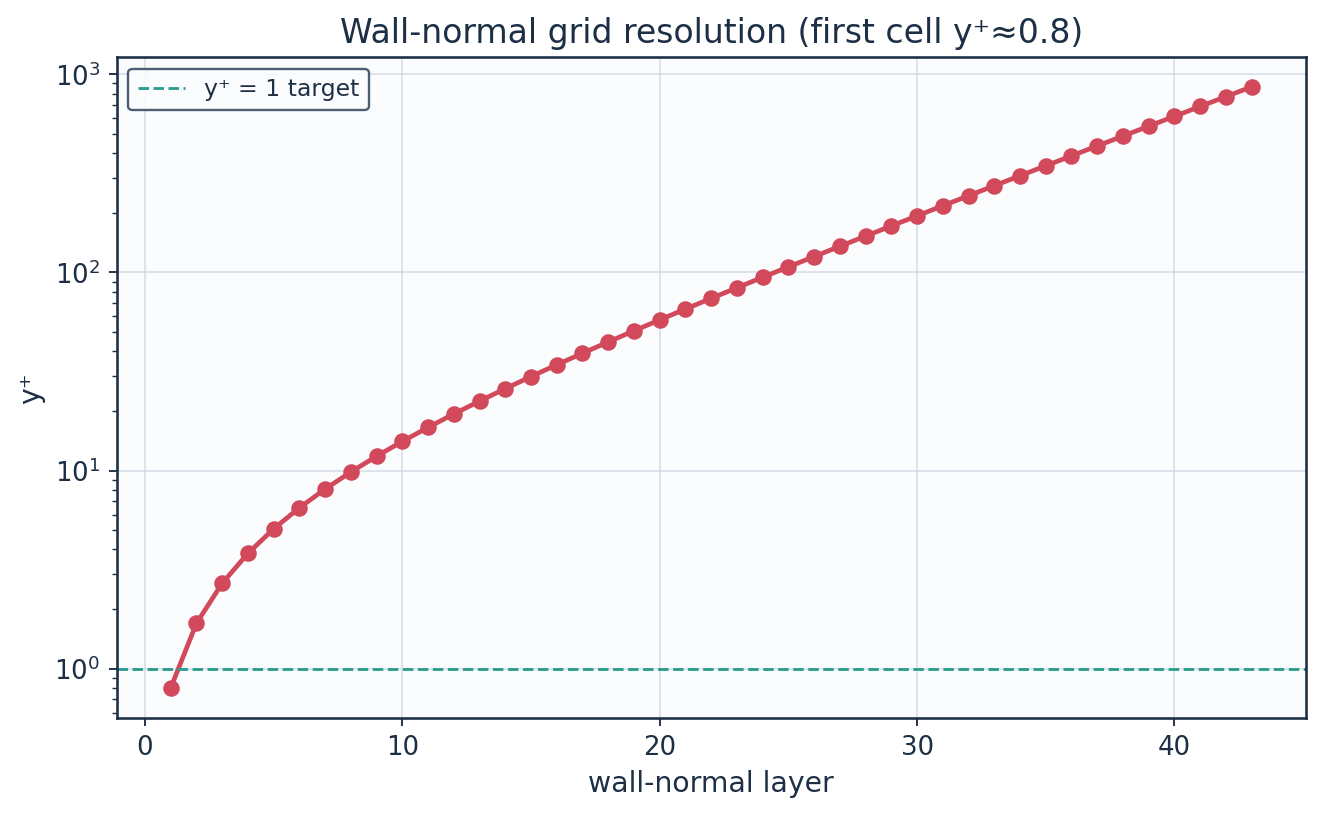
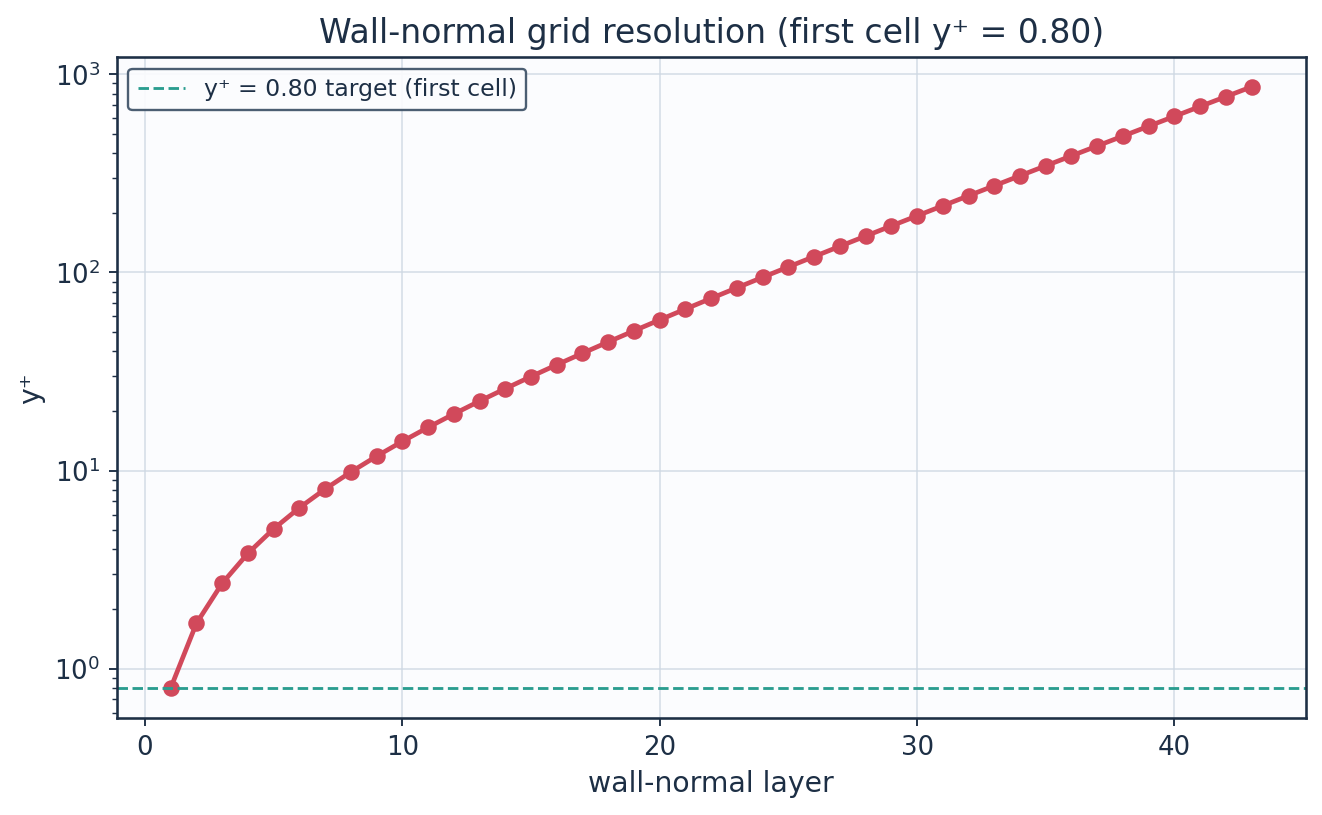
A figure that contradicted itself, and the panel count typed on four figures
Pass seven.  No CSV moves.

ONE FIGURE, TWO TARGETS.  The wall-normal resolution plot drew its reference
line at y+ = 1 and labelled it "y+ = 1 target", while its own title on the same
axes said "first cell y+ = 0.8" and 02_mesh/mesh_metrics.csv said 0.80.  The
line is at the first cell's own y+ now - the quantity gen_mesh_setup sized the
stack on - and the title reads it from the same place.  gen_mesh_setup's
version of the same figure had always derived it; only the duplicate in
gen_postprocessing had the fault, which is how it survived.

THE PANEL COUNT TYPED ON THE FIGURES ABOUT THE PANEL COUNT.  260 was a literal
on the mesh-independence plot in gen_postprocessing, twice more on the same
plot in gen_mesh_setup - ten lines below the N_PANEL_HALF that defines it - and
once in the report's narrative.  All four read it now.

Verified and left alone: Table 1 of the executive summary is derived in full;
ISA temperature at the 11 km cruise altitude is the 216.65 K the config
declares; the validation sections really are re-splined onto 400 and 440
panels; the mesh-independence band in the title is computed from the sweep
above 180 panels, which is the range the sentence claims.

32 smoke checks, all eight stages, and verify_outputs on the re-rendered
78-page report: all pass.

Changed region(s): [[0.1861, 0.0, 0.7753, 0.1534], [0.8064, 0.0, 0.8374, 0.0613], [0.2481, 0.7975, 0.2791, 0.8589]]

diff --git a/gen_postprocessing.py b/gen_postprocessing.py
@@ -149,9 +149,16 @@ def plot_mesh_csvs():
     # off the bottom of the frame; the grid starts at the first cell
     b1=bl[bl["y_plus"]>0]
     ax.semilogy(b1["layer"],b1["y_plus"],"o-",color=PALETTE[1])
-    ax.axhline(1.0,color=PALETTE[2],ls="--",lw=1.2,label="y⁺ = 1 target")
+    # The target is the first cell's own y+, which is what gen_mesh_setup sized
+    # the stack on and what 02_mesh/mesh_metrics.csv reports.  This drew the
+    # line at y+ = 1 and labelled it "y+ = 1 target" while the title on the
+    # same axes said 0.8 and the metrics table said 0.80: one figure carrying
+    # two different targets for one grid.
+    yp1=float(b1["y_plus"].iloc[0])
+    ax.axhline(yp1,color=PALETTE[2],ls="--",lw=1.2,
+               label="y⁺ = %.2f target (first cell)"%yp1)
     ax.set_xlabel("wall-normal layer"); ax.set_ylabel("y⁺")
-    ax.set_title("Wall-normal grid resolution (first cell y⁺≈0.8)")
+    ax.set_title("Wall-normal grid resolution (first cell y⁺ = %.2f)"%yp1)
     ax.legend(fontsize=10); finish(fig,f"{CSVP}/mesh_yplus.png")
 
     mi=pd.read_csv("02_mesh/mesh_independence.csv")
@@ -160,8 +167,12 @@ def plot_mesh_csvs():
     ax.set_xlabel("surface panels"); ax.set_ylabel("C_d [counts]",color=PALETTE[0])
     ax2=ax.twinx(); ax2.plot(mi["n_surface_panels"],mi["x_tr_upper_c"],"s--",color=PALETTE[1])
     ax2.set_ylabel("x_tr/c upper",color=PALETTE[1])
-    ax.axvline(260,color=PALETTE[2],ls=":")
-    ax.text(260,ax.get_ylim()[1],"  selected grid (260)",color=PALETTE[2],
+    # The shipped grid, from the metrics table rather than typed: 260 was a
+    # literal on a figure whose whole subject is the panel count.
+    _mm=pd.read_csv("02_mesh/mesh_metrics.csv").set_index("metric")
+    npan=int(float(_mm.loc["Surface streamwise nodes","value"]))-1
+    ax.axvline(npan,color=PALETTE[2],ls=":")
+    ax.text(npan,ax.get_ylim()[1],"  selected grid (%d)"%npan,color=PALETTE[2],
             fontsize=9,va="top",ha="left")
     ax.set_title("Mesh sensitivity: C_d and transition location vs panel count")
     finish(fig,f"{CSVP}/mesh_independence.png")

diff --git a/build_docx.py b/build_docx.py
@@ -679,9 +679,10 @@ para("The surface is discretised with cosine-clustered streamwise nodes; the wal
  "  The residual wander is not a truncation error that refinement removes — "
  "it is set by which panel the transition point lands on, so it scales with the panel "
  "spacing at transition and is of the same order as the ±0.025c bracket the aerofoil "
- "measurements themselves carry. The 260-panel grid is used for every case-study "
+ "measurements themselves carry. The %d-panel grid is used for every case-study "
  "result; the tabulated validation sections are re-splined onto their own "
- "cosine-clustered grids of 400 and 440 panels.")
+ "cosine-clustered grids of 400 and 440 panels."
+ % (int(float(_mm.loc["Surface streamwise nodes", "value"])) - 1))
 table_from_csv("02_mesh/mesh_metrics.csv", key="mesh_metrics",
                cap="Metrics of the surface discretisation and of the wall-normal reconstruction stack. No volume mesh is generated.")
 table_from_csv("02_mesh/mesh_independence.csv",

diff --git a/gen_mesh_setup.py b/gen_mesh_setup.py
@@ -248,9 +248,13 @@ def plot_independence(df):
     band=0.5*(cdc[1:].max()-cdc[1:].min())
     ax.set_title("Mesh sensitivity (cruise): C_d within ±%.1f count above 180 "
                  "panels" % band)
-    ax.axvline(260,color=PALETTE[2],ls=":",lw=1.5)
-    ax.text(252,0.96,"selected grid (260)",color=PALETTE[2],fontsize=10,
-            ha="right",va="top",transform=ax.get_xaxis_transform())
+    # The shipped grid, from the constant this module already declares.  It was
+    # a literal 260 in three places on a figure whose subject is the panel
+    # count, and the module that draws it defines N_PANEL_HALF ten lines above.
+    _np_sel = 2*N_PANEL_HALF
+    ax.axvline(_np_sel,color=PALETTE[2],ls=":",lw=1.5)
+    ax.text(_np_sel-8,0.96,"selected grid (%d)"%_np_sel,color=PALETTE[2],
+            fontsize=10,ha="right",va="top",transform=ax.get_xaxis_transform())
     finish(fig,f"{MP}/mesh_03_independence.png")
 
 # ======================================================================
